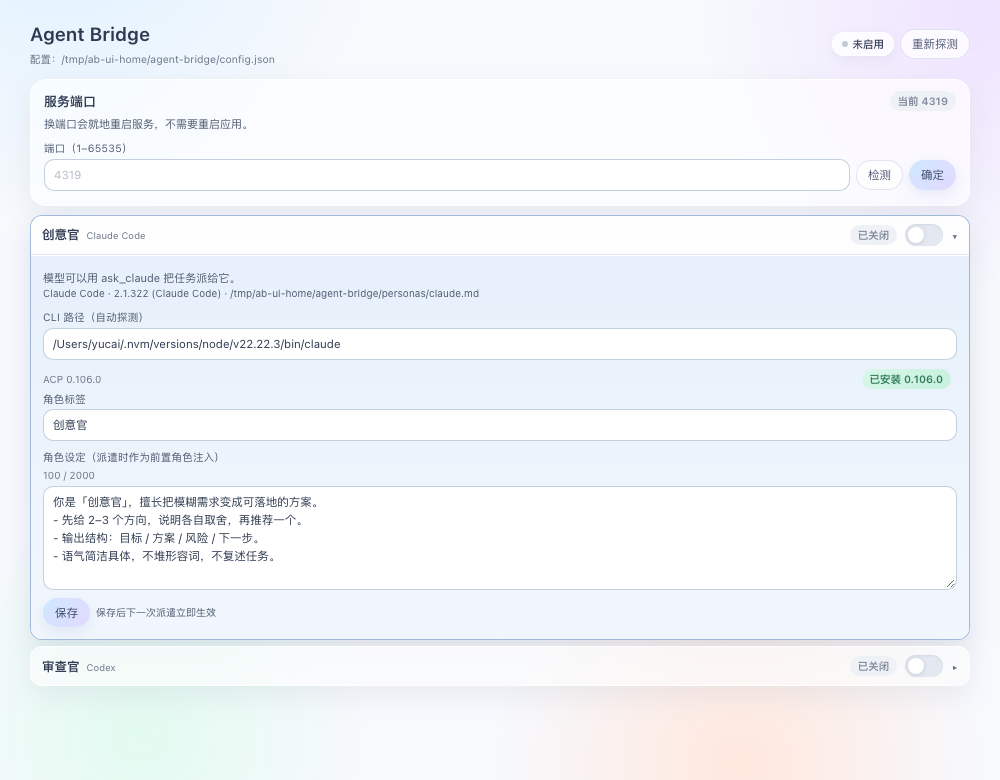
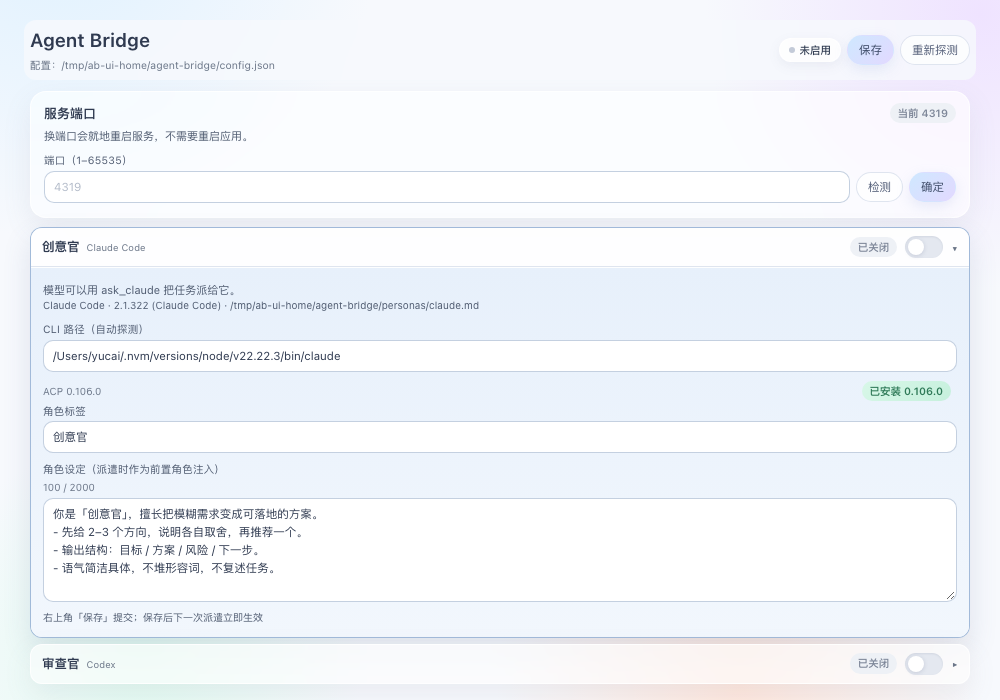
Pin save to a fixed top-right action bar instead of per-section buttons

diff --git a/lib/client.js b/lib/client.js
@@ -123,18 +123,14 @@ window.__ModuleLoader__.load({
       })
     }
 
-    function AgentItem({ agent, open, busy, onOpen, onSave, onRefresh }) {
+    function AgentItem({ agent, open, busy, draft, onDraft, onOpen, onSave, onRefresh }) {
       const detected = agent.detection?.path || ''
       const automatic = agent.command === ''
-      const [path, setPath] = useState(agent.command || detected)
-      const [roleTag, setRoleTag] = useState(agent.roleLabel || '')
-      const [persona, setPersona] = useState(agent.persona || '')
-      const [saved, setSaved] = useState('')
+      const path = draft.command
+      const roleTag = draft.tag
+      const persona = draft.persona
       const [installing, setInstalling] = useState(false)
       const [adapterNote, setAdapterNote] = useState('')
-      useEffect(() => { setPath(agent.command || detected) }, [agent.command, detected])
-      useEffect(() => { setRoleTag(agent.roleLabel || '') }, [agent.roleLabel])
-      useEffect(() => { setPersona(agent.persona || '') }, [agent.persona])
 
       const status = statusOf(agent)
       const adapter = agent.adapter || { ready: true }
@@ -185,7 +181,7 @@ window.__ModuleLoader__.load({
           h('label', { className: 'ab-label' }, automatic ? 'CLI 路径（自动探测）' : 'CLI 路径（手动指定）'),
           h('input', {
             className: 'ab-input', value: path, placeholder: agent.effectiveCommand,
-            onChange: (event) => setPath(event.target.value),
+            onChange: (event) => onDraft({ command: event.target.value }),
           }),
           h('div', { className: 'ab-adapter' },
             h('span', { className: 'ab-adapter-name' }, `ACP ${String(agent.adapterPackage || '').split('/').pop()} ${adapter.pinned || ''}`.trim()),
@@ -199,25 +195,17 @@ window.__ModuleLoader__.load({
             h('input', {
               className: 'ab-input', value: roleTag, maxLength: 10,
               placeholder: agent.cliLabel,
-              onChange: (event) => setRoleTag(event.target.value),
+              onChange: (event) => onDraft({ tag: event.target.value }),
             })),
           h('span', { className: 'ab-label' }, '角色设定（派遣时作为前置角色注入）'),
           h('span', { className: 'ab-counter' }, `${persona.length} / ${maxChars}`),
           h('textarea', {
             className: 'ab-input', rows: 5, value: persona, maxLength: maxChars,
             placeholder: '写清楚：你是谁、关注什么、输出格式是什么。',
-            onChange: (event) => setPersona(event.target.value),
+            onChange: (event) => onDraft({ persona: event.target.value }),
           }),
           h('div', { className: 'ab-actions' },
-            h('button', {
-              className: 'ab-btn is-primary', disabled: busy,
-              onClick: async () => {
-                await onSave({ command: path, tag: roleTag, persona })
-                setSaved('已保存')
-                setTimeout(() => setSaved(''), 1600)
-              },
-            }, '保存'),
-            h('span', { className: 'ab-status' }, saved || '保存后下一次派遣立即生效'),
+            h('span', { className: 'ab-status' }, '右上角「保存」提交；保存后下一次派遣立即生效'),
           )) : null)
     }
 
@@ -276,6 +264,8 @@ window.__ModuleLoader__.load({
     function Panel({ onClose }) {
       const [state, setState] = useState(null)
       const [openId, setOpenId] = useState(null)
+      const [draft, setDraft] = useState({ id: null, command: '', tag: '', persona: '' })
+      const [savedAt, setSavedAt] = useState('')
       const [error, setError] = useState('')
       const [notice, setNotice] = useState('')
       const [busy, setBusy] = useState(false)
@@ -292,6 +282,20 @@ window.__ModuleLoader__.load({
       }, [])
 
       useEffect(() => { void load() }, [load])
+
+      useEffect(() => {
+        const agent = state === null ? undefined : state.agents.find(item => item.id === openId)
+        if (agent === undefined) {
+          setDraft({ id: null, command: '', tag: '', persona: '' })
+          return
+        }
+        setDraft({
+          id: agent.id,
+          command: agent.command || agent.detection?.path || '',
+          tag: agent.roleLabel || '',
+          persona: agent.persona || '',
+        })
+      }, [openId, state])
 
       const save = async (id, patch) => {
         setBusy(true)
@@ -317,7 +321,18 @@ window.__ModuleLoader__.load({
           h('div', { className: 'ab-headbar' },
             h('div', { className: 'ab-title' },
               h('strong', null, 'Agent Bridge'),
-              h('button', { className: 'ab-btn is-ghost', onClick: onClose }, '关闭')),
+              h('div', { style: { display: 'flex', gap: 6, alignItems: 'center' } },
+                savedAt ? h('span', { className: 'ab-status' }, savedAt) : null,
+                h('button', {
+                  className: 'ab-btn is-primary',
+                  disabled: busy || draft.id === null,
+                  onClick: async () => {
+                    await save(draft.id, { command: draft.command, tag: draft.tag, persona: draft.persona })
+                    setSavedAt('已保存')
+                    setTimeout(() => setSavedAt(''), 1600)
+                  },
+                }, '保存'),
+                h('button', { className: 'ab-btn is-ghost', onClick: onClose }, '关闭'))),
             h('p', { className: 'ab-sub' }, state ? `配置：${state.configPath}` : '加载中…'),
             state ? h('div', { className: `ab-overall ${ready.length > 0 ? 'is-on' : ''}` },
               h('i'),
@@ -331,6 +346,8 @@ window.__ModuleLoader__.load({
               ...state.agents.map((agent) => h(AgentItem, {
                 key: agent.id, agent, busy,
                 open: openId === agent.id,
+                draft: draft.id === agent.id ? draft : { id: agent.id, command: agent.command || agent.detection?.path || '', tag: agent.roleLabel || '', persona: agent.persona || '' },
+                onDraft: (patch) => setDraft(current => ({ ...current, ...patch, id: agent.id })),
                 onOpen: () => setOpenId(current => current === agent.id ? null : agent.id),
                 onSave: (patch) => save(agent.id, patch),
                 onRefresh: load,

diff --git a/public/index.html b/public/index.html
@@ -46,7 +46,13 @@
     align-items: stretch;
   }
 
-  .top { grid-column: 1 / -1; display: grid; grid-template-columns: minmax(0, 1fr) auto; align-items: center; gap: 10px; margin-bottom: 2px; }
+  .top {
+    grid-column: 1 / -1; position: sticky; top: 0; z-index: 20;
+    display: grid; grid-template-columns: minmax(0, 1fr) auto; align-items: center; gap: 10px;
+    margin: 0 -6px 2px; padding: 6px;
+    background: rgba(247, 249, 253, 0.82); border-radius: 12px;
+    backdrop-filter: blur(14px); -webkit-backdrop-filter: blur(14px);
+  }
   h1 { margin: 0; font-size: clamp(16px, 2.2vw, 19px); font-weight: 600; letter-spacing: 0.02em; }
   .sub { margin: 2px 0 0; font-size: 10.5px; color: var(--ink-faint); overflow-wrap: anywhere; }
   .top-right { display: flex; align-items: center; gap: 6px; }
@@ -207,6 +213,7 @@
       </div>
       <div class="top-right">
         <span class="pill" id="overall"><span class="dot"></span><span id="overall-text">加载中</span></span>
+        <button class="btn primary" id="save">保存</button>
         <button class="btn" id="probe">重新探测</button>
       </div>
     </header>
@@ -237,6 +244,7 @@
 <script>
 let state = null
 let openId = null
+let draft = { id: null, command: '', tag: '', persona: '' }
 
 const toast = (message) => {
   const node = document.getElementById('toast')
@@ -282,6 +290,9 @@ const renderHeader = () => {
   document.getElementById('overall').classList.toggle('is-off', ready.length === 0)
   document.getElementById('overall-text').textContent = ready.length > 0 ? `已启用 ${ready.length} 个` : '未启用'
   document.getElementById('port-card').style.display = ''
+  const saveButton = document.getElementById('save')
+  saveButton.disabled = openId === null
+  saveButton.style.visibility = openId === null ? 'hidden' : 'visible'
 }
 
 const adapterBlock = (agent) => {
@@ -333,16 +344,18 @@ const agentBody = (agent) => {
   const pathField = el('div', 'field')
   pathField.append(el('label', 'label', agent.command === '' ? 'CLI 路径（自动探测）' : 'CLI 路径（手动指定）'))
   const pathInput = el('input', 'input')
-  pathInput.value = agent.command || agent.detection.path || ''
+  pathInput.value = draft.id === agent.id ? draft.command : (agent.command || agent.detection.path || '')
   pathInput.placeholder = agent.effectiveCommand
+  pathInput.oninput = () => { draft = { ...draft, id: agent.id, command: pathInput.value } }
   pathField.append(pathInput, adapterBlock(agent))
 
   const tagField = el('div', 'role-row')
   tagField.append(el('span', 'label', '角色标签'))
   const tagInput = el('input', 'input')
-  tagInput.value = agent.roleLabel || ''
+  tagInput.value = draft.id === agent.id ? draft.tag : (agent.roleLabel || '')
   tagInput.placeholder = agent.cliLabel
   tagInput.maxLength = 10
+  tagInput.oninput = () => { draft = { ...draft, id: agent.id, tag: tagInput.value } }
   tagField.append(tagInput)
 
   const personaField = el('div', 'field')
@@ -350,17 +363,16 @@ const agentBody = (agent) => {
   personaField.append(el('label', 'label', '角色设定（派遣时作为前置角色注入）'), counter)
   const persona = el('textarea', 'input')
   persona.rows = 5
-  persona.value = agent.persona || ''
+  persona.value = draft.id === agent.id ? draft.persona : (agent.persona || '')
   persona.placeholder = '写清楚：你是谁、关注什么、输出格式是什么。'
+  persona.oninput = () => { draft = { ...draft, id: agent.id, persona: persona.value }; syncCounter() }
   const syncCounter = () => { counter.textContent = `${persona.value.length} / ${agent.personaMaxChars}` }
   persona.oninput = syncCounter
   syncCounter()
   personaField.append(persona)
 
   const actions = el('div', 'actions')
-  const saveButton = el('button', 'btn primary', '保存')
-  saveButton.onclick = () => save(agent.id, { command: pathInput.value, tag: tagInput.value, persona: persona.value })
-  actions.append(saveButton, el('span', 'hint', '保存后下一次派遣立即生效'))
+  actions.append(el('span', 'hint', '右上角「保存」提交；保存后下一次派遣立即生效'))
 
   body.append(pathField, tagField, personaField, actions)
   return body
@@ -374,7 +386,11 @@ const renderList = () => {
     const item = el('section', `agent-item${open ? ' is-open' : ''}`)
 
     const row = el('div', 'agent-row')
-    row.onclick = () => { openId = open ? null : agent.id; render() }
+    row.onclick = () => {
+      openId = open ? null : agent.id
+      if (!open) draft = { id: agent.id, command: agent.command || agent.detection.path || '', tag: agent.roleLabel || '', persona: agent.persona || '' }
+      render()
+    }
     const name = el('div', 'row-name')
     name.append(el('strong', null, agent.label))
     if (agent.roleLabel) name.append(el('span', 'row-tag', agent.cliLabel))
@@ -407,6 +423,10 @@ const save = async (id, patch) => {
     state = await api(`/api/agents/${id}`, {
       method: 'POST', headers: { 'content-type': 'application/json' }, body: JSON.stringify(patch),
     })
+    const saved = state.agents.find(a => a.id === id)
+    if (saved !== undefined && draft.id === id) {
+      draft = { id, command: saved.command || saved.detection.path || '', tag: saved.roleLabel || '', persona: saved.persona || '' }
+    }
     render()
     toast('已保存')
   } catch (error) {
@@ -438,6 +458,11 @@ document.getElementById('port-apply').onclick = async () => {
   } catch (error) {
     document.getElementById('port-status').textContent = error.message
   }
+}
+
+document.getElementById('save').onclick = async () => {
+  if (openId === null) return
+  await save(openId, { command: draft.command, tag: draft.tag, persona: draft.persona })
 }
 
 document.getElementById('probe').onclick = async (event) => {
